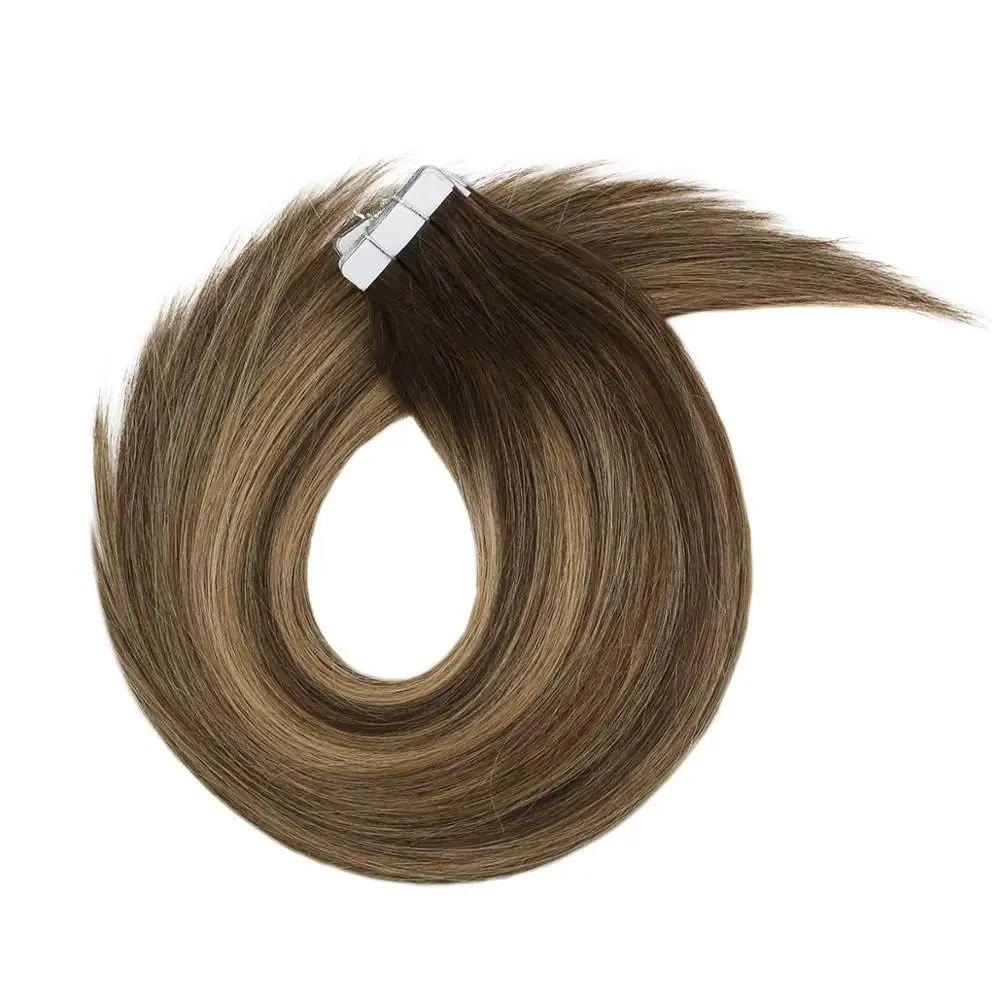
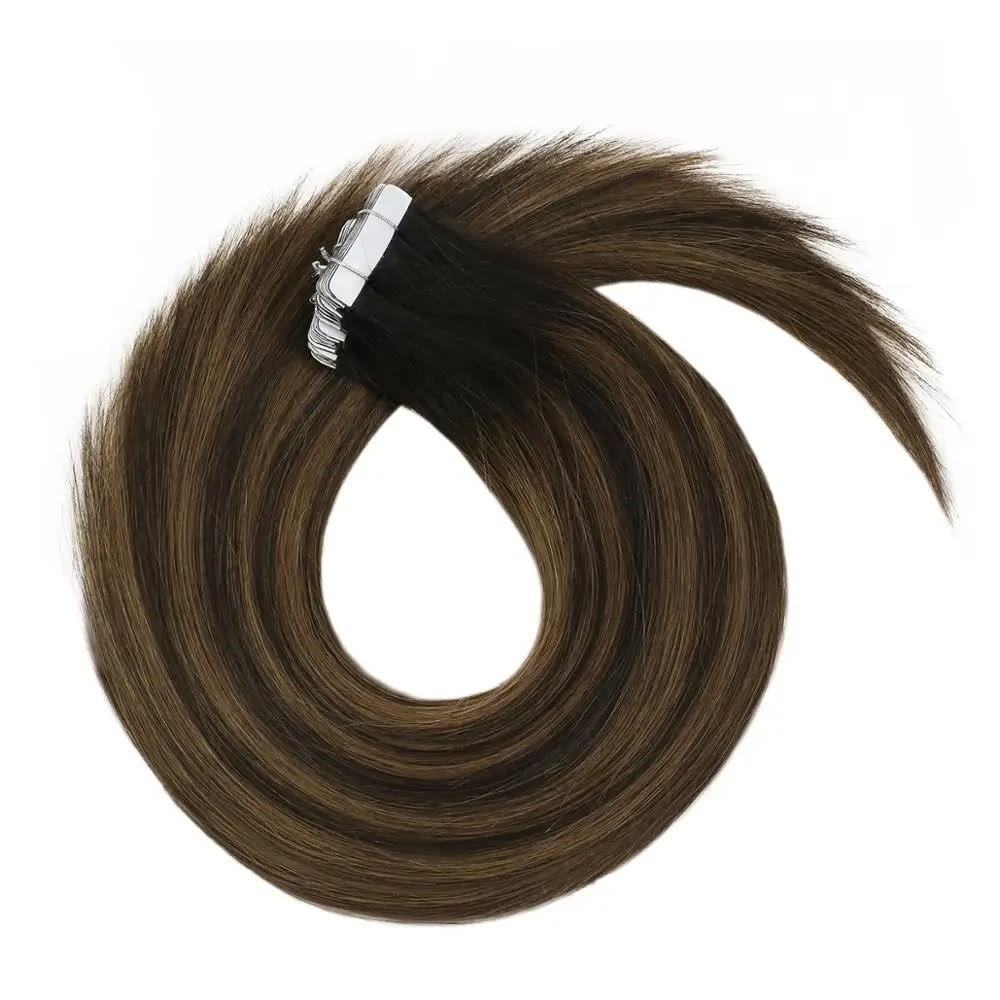
Fix Tape-In photos for 2-2-6, 4-27-4 and 6-60-6 to match the listing
Claude-Session: https://claude.ai/code/session_015XYF5t7iLpKZnBh7vCqiM9

diff --git a/products.js b/products.js
@@ -27,9 +27,9 @@ const CATALOGUE={
     colours:[
       ["1","Jet black","solid","tape-in-1"],["1b","Natural black","solid","tape-in-1b"],["2","Darkest brown","solid","tape-in-2"],
       ["4","Medium brown","solid","tape-in-4"],["33","Auburn","blend","tape-in-33"],["350","Copper","blend","tape-in-350"],
-      ["2-2-6","Dark brown to chestnut balayage","blend","tape-in-2-2-6"],["1B-4-18","Black to ash brown ombre","blend","tape-in-1b-4-18"],
-      ["P4-27","Brown with honey highlights","blend","tape-in-p4-27"],["4-27-4","Brown with honey highlights","blend","tape-in-4-27-4"],
-      ["6-60-6","Light brown with platinum balayage","blend","tape-in-6-60-6"],["3-8-22","Brown to golden blonde balayage","blend","tape-in-3-8-22"],
+      ["2-2-6","Black root to brown highlights","blend","tape-in-2-2-6"],["1B-4-18","Black to ash brown ombre","blend","tape-in-1b-4-18"],
+      ["P4-27","Brown with honey highlights","blend","tape-in-p4-27"],["4-27-4","Dark root to brown with honey highlights","blend","tape-in-4-27-4"],
+      ["6-60-6","Light brown with ash blonde highlights","blend","tape-in-6-60-6"],["3-8-22","Brown to golden blonde balayage","blend","tape-in-3-8-22"],
       ["4-14-60","Brown to platinum ombre","blend","tape-in-4-14-60"],["60","Platinum blonde","blend","tape-in-60"],
       ["P18-613","Ash and bleach blonde mix","blend","tape-in-p18-613"],["P16-22","Golden blonde highlights","blend","tape-in-p16-22"],
       ["18-22-60","Ash to platinum balayage","blend","tape-in-18-22-60"],["1b-silver-1b","Black with silver streak","blend","tape-in-1b-silver-1b"],
